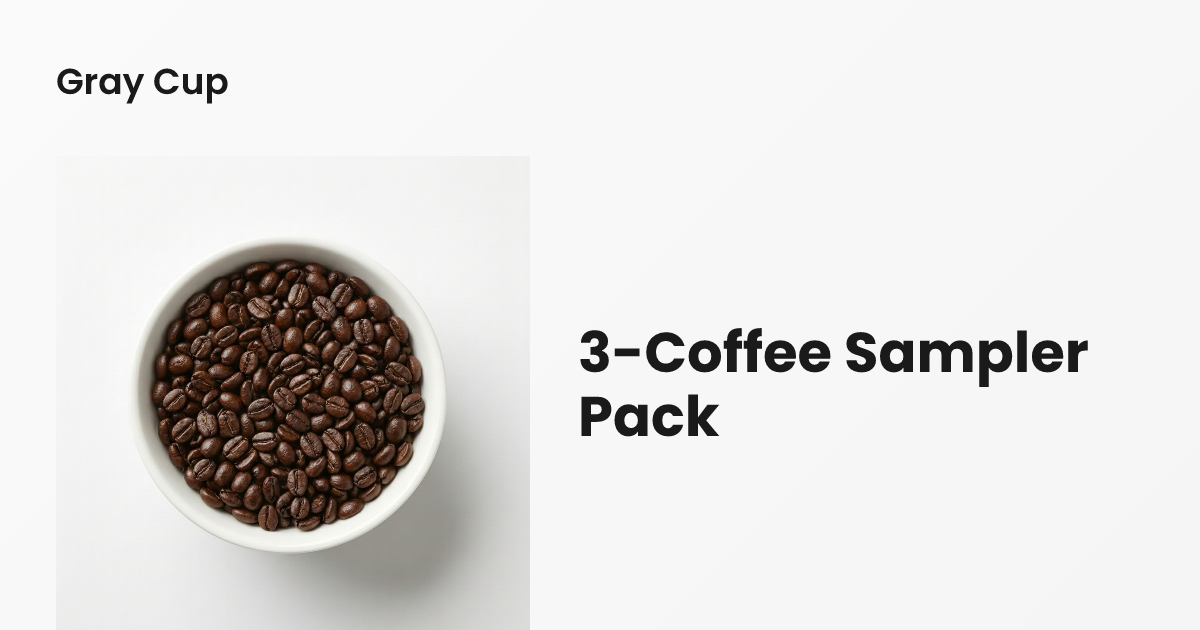
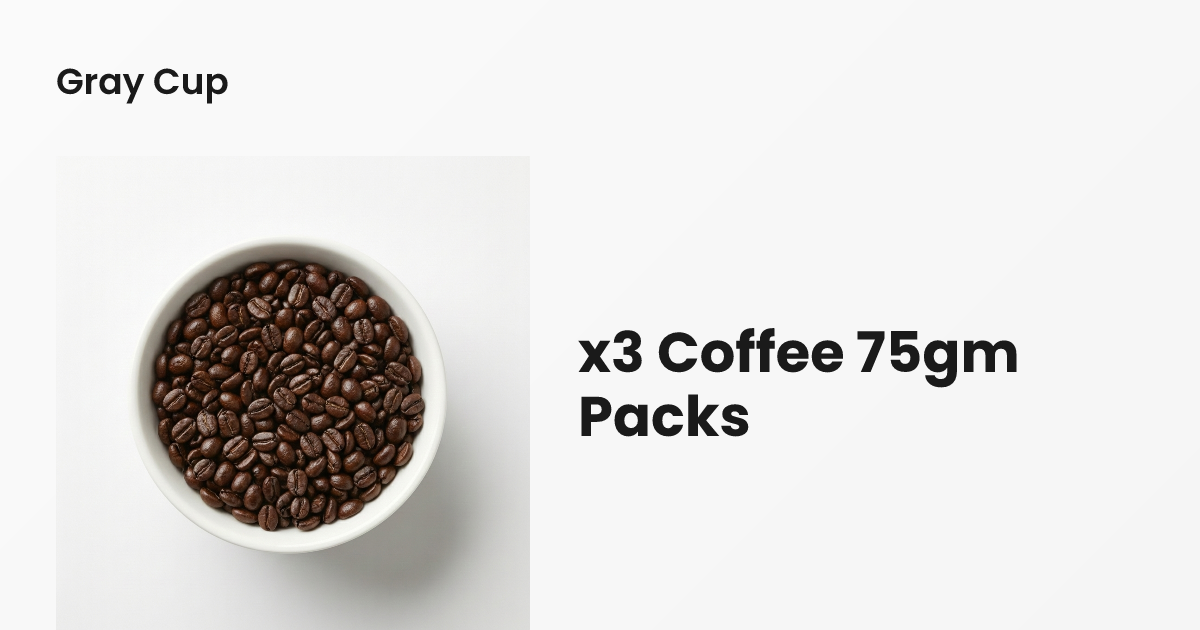
update sample packs

Changed region(s): [[0.4625, 0.5127, 0.925, 0.6333], [0.5858, 0.6333, 0.6475, 0.6937]]

diff --git a/src/data/products/sample-packs.ts b/src/data/products/sample-packs.ts
@@ -3,7 +3,7 @@ import type { Product } from "./types";
 export const samplePackProducts: Product[] = [
   {
     slug: "3-coffee-sampler-pack",
-    name: "3-Coffee Sampler Pack",
+    name: "x3 Coffee 75gm Packs",
     image: "/products/roasted-coffee-beans.png",
     images: ["/products/roasted-coffee-beans.png", "/products/ground-coffee.png", "/products/green-coffee-beans.png"],
     description:
@@ -40,7 +40,7 @@ export const samplePackProducts: Product[] = [
   },
   {
     slug: "5-coffee-sampler-pack",
-    name: "5-Coffee Sampler Pack",
+    name: "x5 Coffee 75gm Packs",
     image: "/products/roasted-coffee-beans.png",
     images: ["/products/roasted-coffee-beans.png", "/products/ground-coffee.png", "/products/green-coffee-beans.png"],
     description:
@@ -77,7 +77,7 @@ export const samplePackProducts: Product[] = [
   },
   {
     slug: "7-coffee-sampler-pack",
-    name: "7-Coffee Sampler Pack",
+    name: "x7 Coffee 75gm Packs",
     image: "/products/roasted-coffee-beans.png",
     images: ["/products/roasted-coffee-beans.png", "/products/ground-coffee.png", "/products/green-coffee-beans.png"],
     description:
